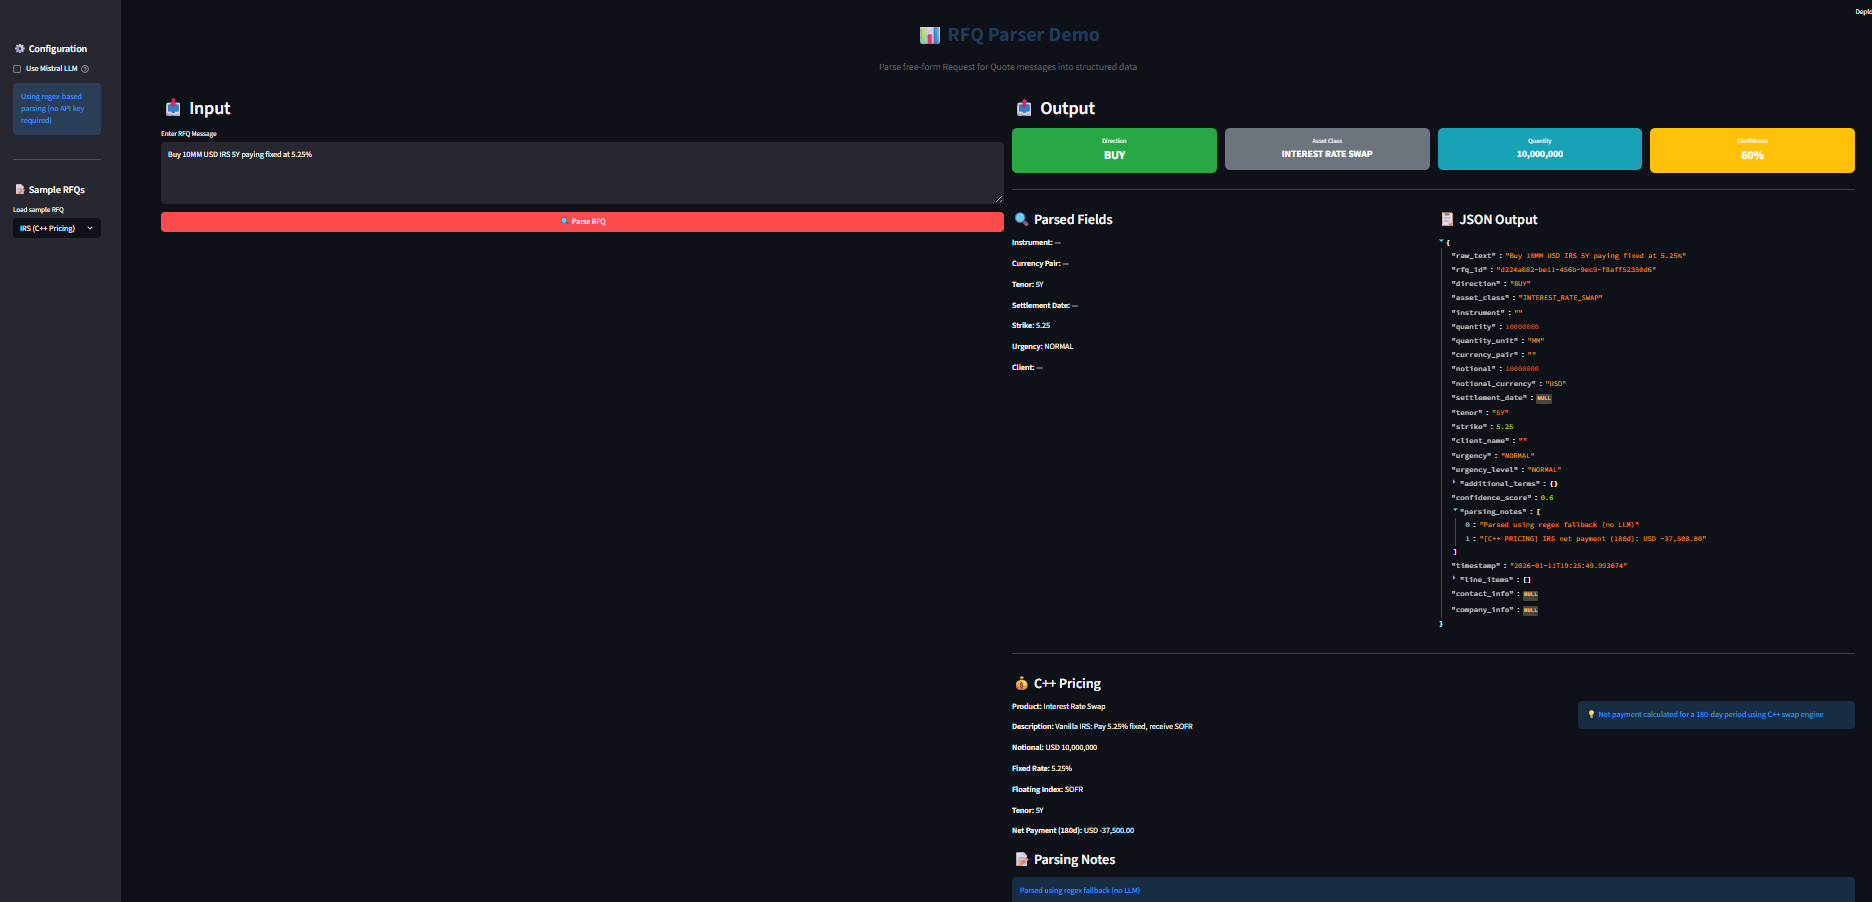
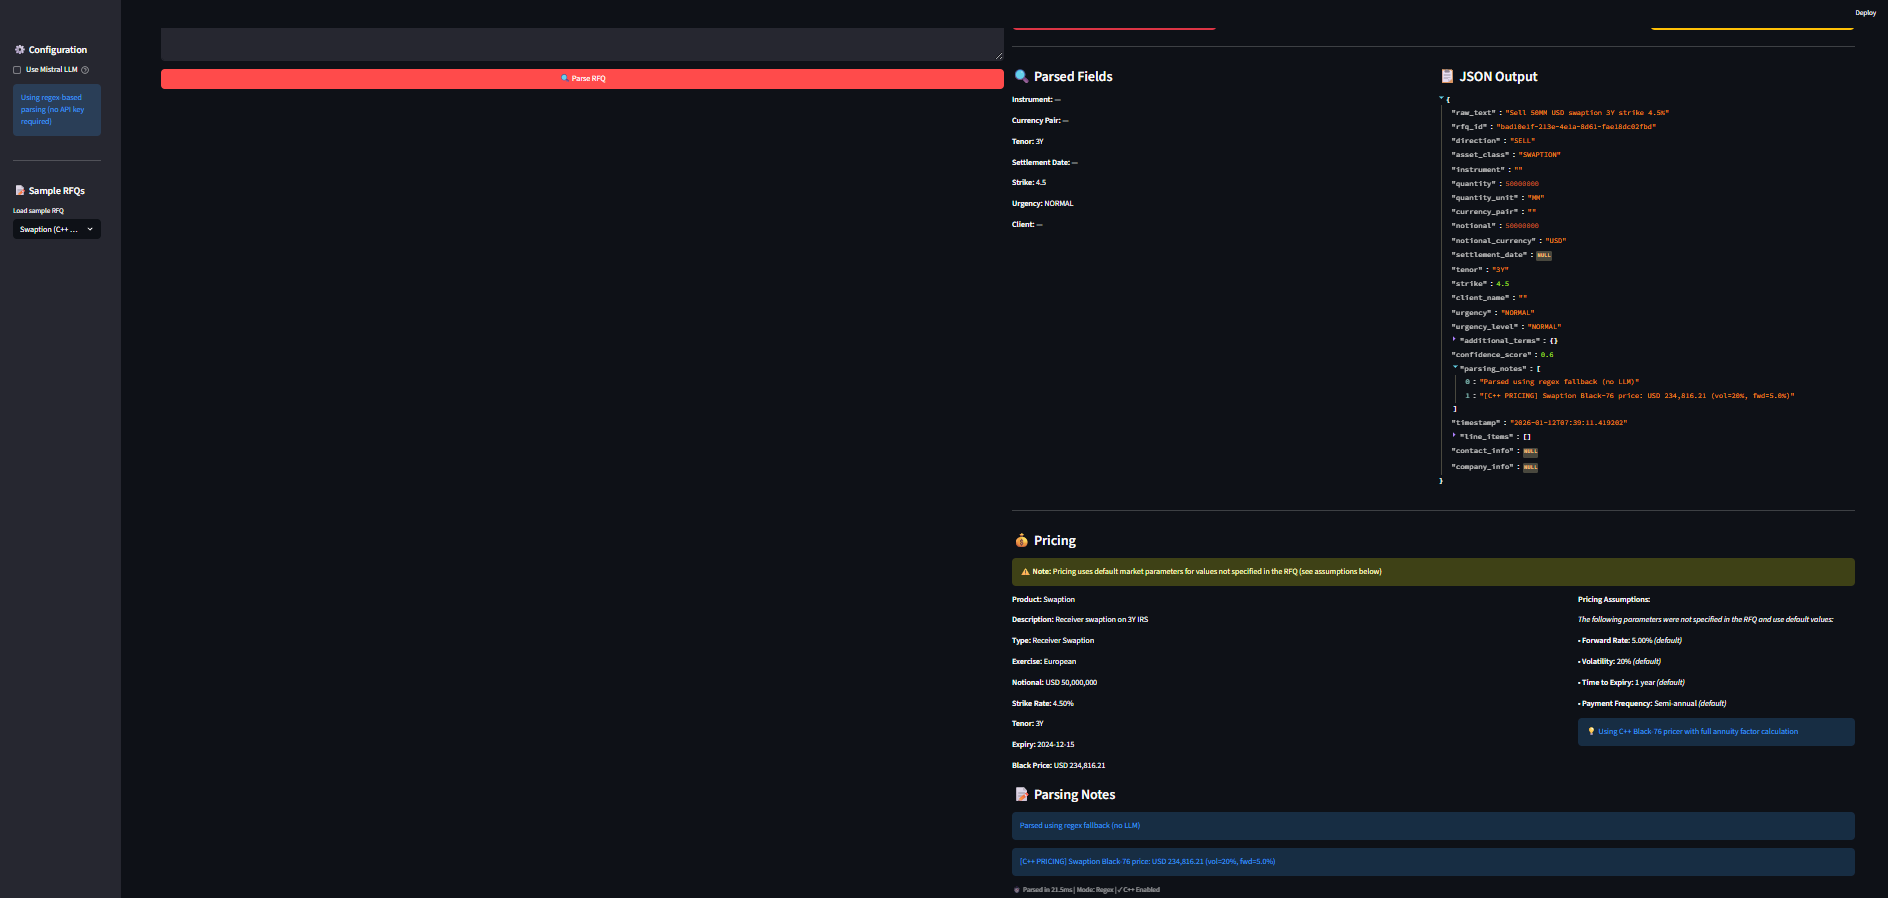
Fixed annuity computation for swaptions.

diff --git a/app.py b/app.py
@@ -245,6 +245,9 @@ def main():
                 pricing_label = "💰 C++ Pricing" if pricing_info.get('product_type') == 'Interest Rate Swap' else "💰 Pricing"
                 st.subheader(pricing_label)
 
+                # Warning about default parameters
+                st.warning("⚠ **Note:** Pricing uses default market parameters for values not specified in the RFQ (see assumptions below)")
+
                 # Display pricing details in a nice format
                 price_cols = st.columns([2, 1])
 
@@ -271,11 +274,18 @@ def main():
                 with price_cols[1]:
                     # Display pricing parameters for swaptions
                     if pricing_info.get('product_type') == 'Swaption':
-                        st.markdown("**Pricing Inputs:**")
-                        st.markdown(f"• Forward: {pricing_info['forward_rate']}")
-                        st.markdown(f"• Volatility: {pricing_info['volatility']}")
-                        st.info("💡 Using C++ Black-76 pricer with default market parameters")
+                        st.markdown("**Pricing Assumptions:**")
+                        st.markdown("*The following parameters were not specified in the RFQ and use default values:*")
+                        st.markdown(f"• **Forward Rate:** {pricing_info['forward_rate']} *(default)*")
+                        st.markdown(f"• **Volatility:** {pricing_info['volatility']} *(default)*")
+                        st.markdown(f"• **Time to Expiry:** 1 year *(default)*")
+                        st.markdown(f"• **Payment Frequency:** Semi-annual *(default)*")
+                        st.info("💡 Using C++ Black-76 pricer with full annuity factor calculation")
                     elif pricing_info.get('product_type') == 'Interest Rate Swap':
+                        st.markdown("**Pricing Assumptions:**")
+                        st.markdown("*The following parameters were not specified in the RFQ:*")
+                        st.markdown(f"• **Floating Rate:** 4.5% *(assumed SOFR)*")
+                        st.markdown(f"• **Payment Frequency:** Semi-annual fixed, Quarterly floating *(default)*")
                         st.info("💡 Net payment calculated for a 180-day period using C++ swap engine")
 
             # Parsing notes

diff --git a/cpp/src/swaption.cpp b/cpp/src/swaption.cpp
@@ -221,7 +221,8 @@ namespace {
 
 double SwaptionPricer::calculateAnnuity(
     const InterestRateSwap& swap,
-    double discount_rate) {
+    double discount_rate,
+    double time_to_expiry) {
 
     // Get swap tenor in years
     std::string tenor_str = swap.tenor();
@@ -259,9 +260,11 @@ double SwaptionPricer::calculateAnnuity(
     double payment_period = 1.0 / payments_per_year; // Time between payments in years
 
     // Calculate annuity as sum of discounted payment periods
+    // IMPORTANT: Payments start at time_to_expiry (when swap begins)
+    // NOT at time 0 (today)
     double annuity = 0.0;
     for (int i = 1; i <= num_payments; ++i) {
-        double time = i * payment_period; // Time to payment i
+        double time = time_to_expiry + i * payment_period; // Payments start after swaption expiry
         double discount_factor = std::exp(-discount_rate * time); // Continuous compounding
         annuity += discount_factor * payment_period;
     }
@@ -291,7 +294,8 @@ double SwaptionPricer::blackPrice(
     }
 
     // Calculate annuity factor (present value of basis point)
-    double annuity = calculateAnnuity(swaption.underlying(), forward_rate);
+    // Underlying swap starts at time_to_expiry, not today
+    double annuity = calculateAnnuity(swaption.underlying(), forward_rate, time_to_expiry);
 
     // Full Black-76 price with annuity
     double price = notional * annuity * intrinsic;

diff --git a/cpp/include/rfq/swaption.hpp b/cpp/include/rfq/swaption.hpp
@@ -131,9 +131,11 @@ public:
 
 private:
     // Calculate swap annuity factor (present value of basis point)
+    // Payments start at time_to_expiry (when underlying swap begins)
     static double calculateAnnuity(
         const InterestRateSwap& swap,
-        double discount_rate);
+        double discount_rate,
+        double time_to_expiry);
 };
 
 } // namespace rfq

diff --git a/README.md b/README.md
@@ -456,10 +456,22 @@ if pricing:
 
 **Notes:**
 - **IRS Pricing**: Uses C++ swap engine for net payment calculation with ACT/360 day count conventions
-- **Swaption Pricing**: Uses C++ Black-76 pricer for European swaption valuation
-- Pricing uses simplified models with default market parameters for demonstration
-- For production use, integrate with your market data feeds for accurate forward rates and volatilities
+- **Swaption Pricing**: Uses C++ Black-76 pricer with full annuity factor calculation for European swaption valuation
 - Pricing automatically appears in `parsing_notes` field
+
+**Default Parameters (when not specified in RFQ):**
+- **IRS**:
+  - Floating rate: 4.5% (assumed SOFR)
+  - Payment frequency: Semi-annual (fixed leg), Quarterly (floating leg)
+  - Calculation period: 180 days
+- **Swaption**:
+  - Forward rate: 5%
+  - Volatility: 20%
+  - Time to expiry: 1 year
+  - Payment frequency: Semi-annual
+  - Exercise style: European
+
+**For Production Use:** Integrate with your market data feeds for accurate forward rates, volatilities, and term structures
 
 ### Streamlit App Integration
 
